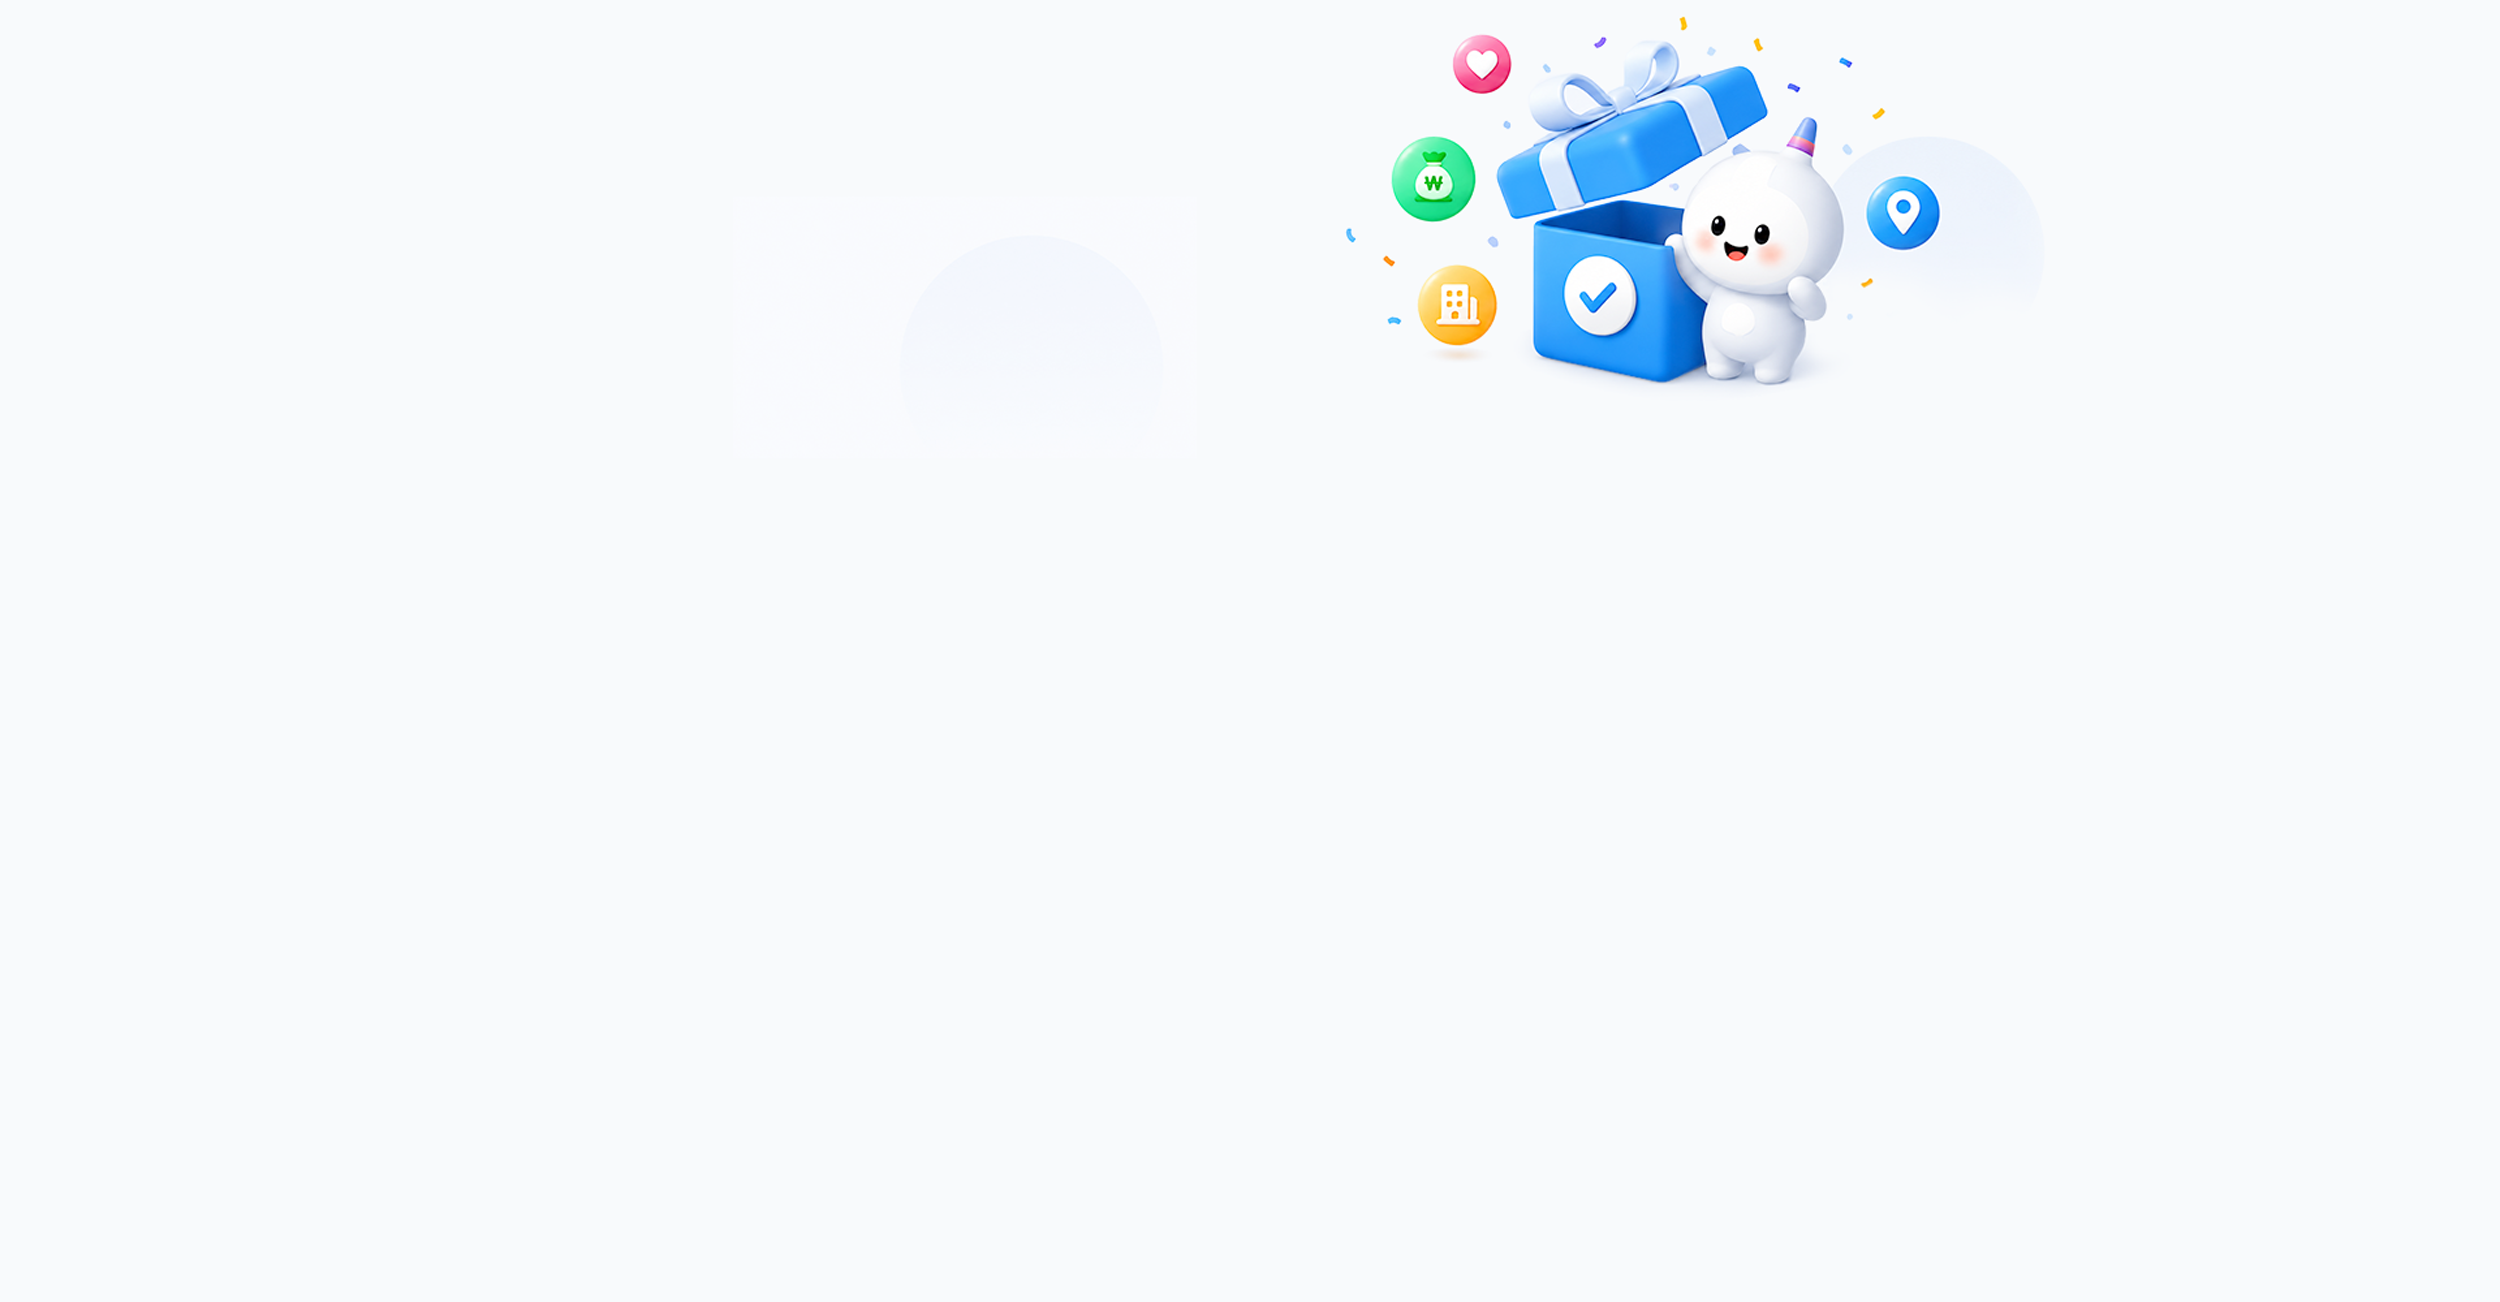
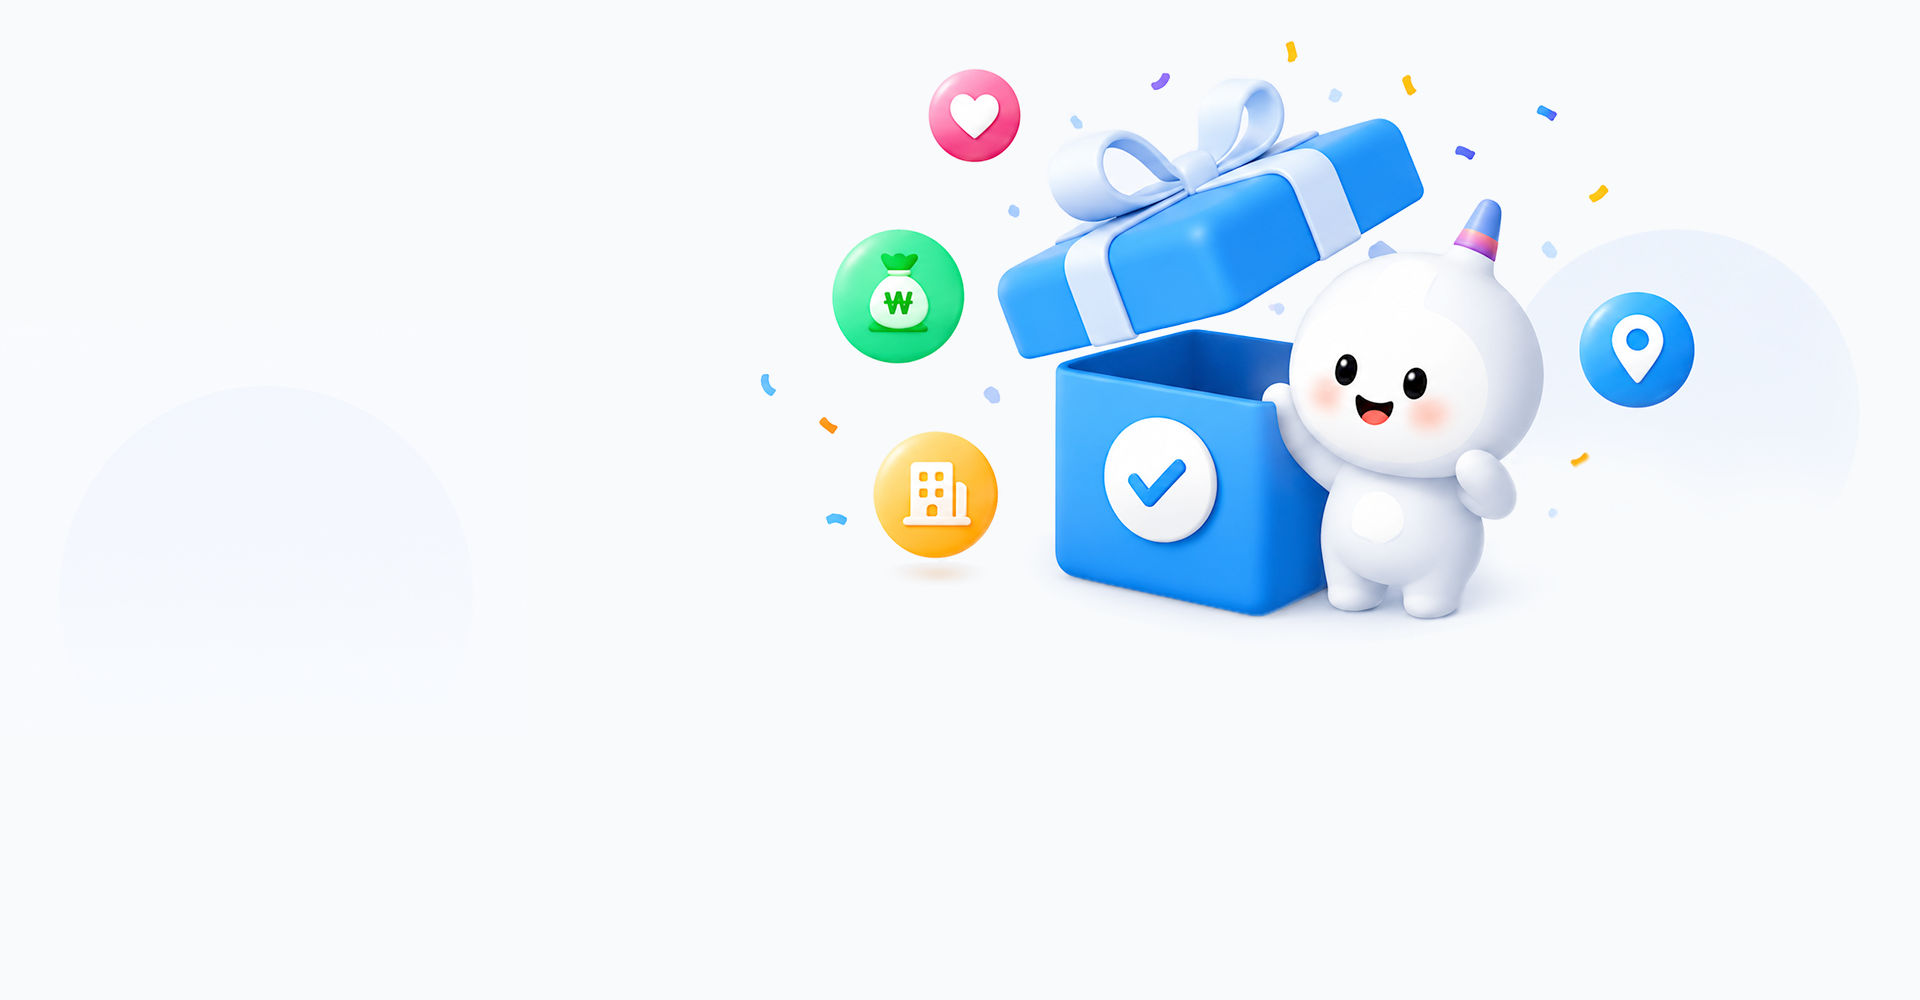
Add files via upload

diff --git a/benefit-wireframe-b.html b/benefit-wireframe-b.html
@@ -13,9 +13,10 @@
   svg { display:block; }
   img.ic { display:block; object-fit:contain; }
 
-  .top-band { background:linear-gradient(180deg,#EAF2FE 0%, #F5F9FE 60%, #F8FAFC 100%); }
+  .top-band { background:#F8FAFC; }
 
-  header { background:rgba(255,255,255,0.65); backdrop-filter:blur(14px); -webkit-backdrop-filter:blur(14px); border-bottom:1px solid rgba(226,232,240,0.6); position:sticky; top:0; z-index:20; }
+  header { background:#F8FAFC; border-bottom:1px solid transparent; position:sticky; top:0; z-index:20; transition:background .2s, border-color .2s; }
+  header.scrolled { background:rgba(255,255,255,0.65); backdrop-filter:blur(14px); -webkit-backdrop-filter:blur(14px); border-bottom-color:rgba(226,232,240,0.6); }
   header .wrap { height:72px; display:flex; align-items:center; justify-content:space-between; }
   .logo { display:flex; align-items:center; gap:9px; font-size:20px; font-weight:800; color:#1D4ED8; }
   .logo img { height:30px; width:auto; }
@@ -29,13 +30,14 @@
   .btn-outline { background:#fff; border:1.5px solid #DBEAFE; color:#334155; padding:10px 21px; border-radius:14px; font-size:13.5px; font-weight:700; cursor:pointer; transition:all .15s; }
   .btn-outline:hover { border-color:#93C5FD; }
 
-  .hero { text-align:left; padding:80px 0; background-color:#F8FAFC; background-image:url('images/sub/hero-illustration.png'); background-size:cover; background-position:right 20px; background-repeat:no-repeat; min-height:300px; }
-  .hero-text { max-width:560px; margin-left:40px; }
+  .hero { position:relative; text-align:left; padding:70px 0; background-color:#F8FAFC; }
+  .hero-img { position:absolute; top:50%; right:355px; width:964px; height:auto; transform:translateY(calc(-50% + 85px)); pointer-events:none; z-index:1; }
+  .hero-text { position:relative; z-index:2; max-width:560px; margin-left:40px; }
   .hero h1 { font-size:37px; font-weight:800; line-height:1.35; margin-bottom:16px; }
   .hero h1 .accent { color:#2563EB; }
   .hero p { font-size:14.5px; color:#64748B; line-height:1.6; }
 
-  .quiz-section { padding-bottom:28px; }
+  .quiz-section { position:relative; z-index:5; padding-bottom:28px; }
   .quiz-grid { display:grid; grid-template-columns:1fr 300px; gap:20px; align-items:start; }
   .quiz-card { background:#fff; border:1px solid #E2E8F0; border-radius:22px; padding:30px; box-shadow:0 1px 2px rgba(15,23,42,.03), 0 14px 32px rgba(15,23,42,.06); }
   .quiz-head { display:flex; justify-content:space-between; align-items:center; padding-bottom:16px; border-bottom:1px solid #EDF1F5; margin-bottom:22px; }
@@ -135,7 +137,8 @@
   .exit-dismiss { display:block; margin-top:12px; font-size:12.5px; color:#94A3B8; cursor:pointer; }
 
   @media (max-width:860px) {
-    .hero { background-image:none; min-height:0; padding:36px 0; }
+    .hero { min-height:0; padding:36px 0; }
+    .hero-img { display:none; }
     nav { display:none; }
     .hero h1 { font-size:26px; }
     .quiz-grid { grid-template-columns:1fr; }
@@ -148,21 +151,21 @@
 </head>
 <body>
 
-<div class="top-band">
-  <header>
-    <div class="wrap">
-      <a href="benefit-wireframe-b.html" class="logo">
-        <img src="images/sub/logo.png" alt="혜택핏">
-      </a>
-      <nav>
-        <a href="benefit-wireframe-benefits.html">혜택탐색</a>
-        <a href="benefit-wireframe-training.html">국비교육</a>
-        <a href="benefit-wireframe-guide.html">가이드</a>
-      </nav>
-      <div class="header-right"><button class="btn-outline">로그인</button><button class="btn-primary">회원가입</button></div>
-    </div>
-  </header>
+<header>
+  <div class="wrap">
+    <a href="benefit-wireframe-b.html" class="logo">
+      <img src="images/sub/logo.png" alt="혜택핏">
+    </a>
+    <nav>
+      <a href="benefit-wireframe-benefits.html">혜택탐색</a>
+      <a href="benefit-wireframe-training.html">국비교육</a>
+      <a href="benefit-wireframe-guide.html">가이드</a>
+    </nav>
+    <div class="header-right"><button class="btn-outline">로그인</button><button class="btn-primary">회원가입</button></div>
+  </div>
+</header>
 
+<div class="top-band">
   <div class="hero">
     <div class="wrap">
       <div class="hero-text">
@@ -170,6 +173,7 @@
         <p>정부24, 복지로, 고용24와 지자체 혜택까지<br>한 번에 비교하고 맞춤으로 찾아드려요.</p>
       </div>
     </div>
+    <img src="images/sub/hero-illustration.png" alt="" class="hero-img">
   </div>
 </div>
 
@@ -411,6 +415,11 @@
   if (window.innerWidth <= 860) {
     setTimeout(showExitModal, 25000);
   }
+
+  const headerEl = document.querySelector('header');
+  window.addEventListener('scroll', () => {
+    headerEl.classList.toggle('scrolled', window.scrollY > 10);
+  });
 </script>
 
 </body>
